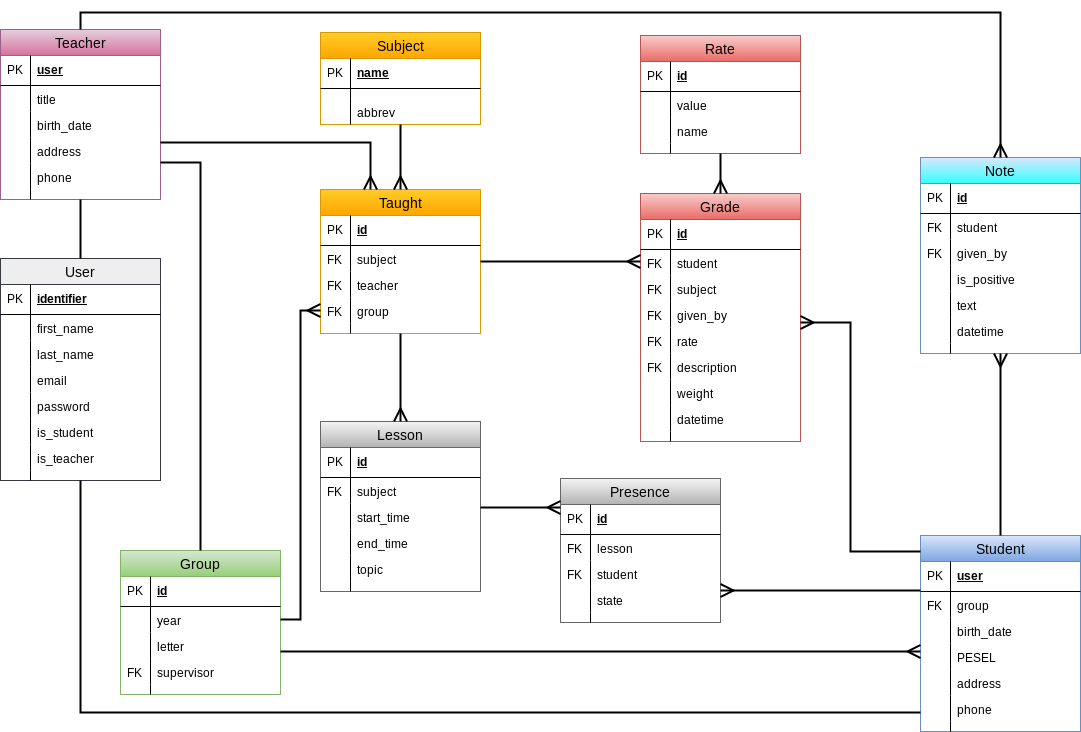
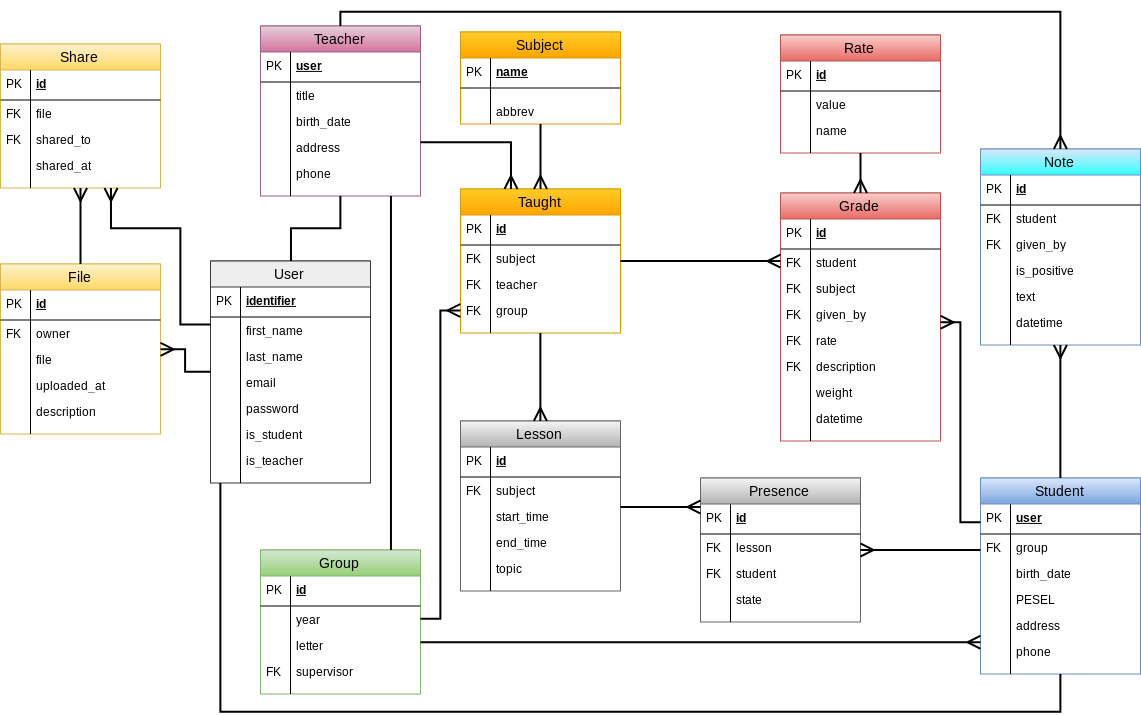
file upload adn sharing done

diff --git a/home/templates/home/_files_list.html b/home/templates/home/_files_list.html
@@ -6,10 +6,16 @@
         <div class="file_list_element">
           <a href="/media/user_{{ file.owner.id }}/{{ file }}" %}>{{ file }}</a>
           <h6>{{ file.description }}</h6>
-          <form class="file_inline_form" action="{% url 'home:file-delete' pk=file.id %}" method="post">
-            {% csrf_token %}
-            <input type="submit" name="delete_button" value="Delete">
-          </form>
+          <div style="display: inline-flex;">
+            <form class="file_inline_form" action="{% url 'home:file-share' pk=file.id %}" method="get">
+              {% csrf_token %}
+              <input type="submit" name="share_button" value="Share">
+            </form>
+            <form class="file_inline_form" action="{% url 'home:file-delete' pk=file.id %}" method="post">
+              {% csrf_token %}
+              <input type="submit" name="delete_button" value="Delete">
+            </form>
+          </div>
         </div>
       </li>
     {% endfor %}

diff --git a/home/templates/home/share_file.html b/home/templates/home/share_file.html
@@ -1,0 +1,26 @@
+{% extends "home/__base.html" %}
+
+{% block title %}Sharing {{ file }}{% endblock %}
+
+{% block content %}
+  <h3>Sharing {{ file }}</h3>
+  <div style="display: inline-flex;">
+    <div id="share-with-class-form">
+      <h4>Share with class</h4>
+      <form class="file-share-with-class-form" action="" method="post">
+        {% csrf_token %}
+        {{ group_share_form }}
+        <input type="submit" name="group-share-submit" value="Share">
+      </form>
+    </div>
+    <h2 style="margin: 20px;">OR</h2>
+    <div id="share-with-user-form">
+      <h4>Share with class</h4>
+      <form class="file-share-with-user-form" action="" method="post">
+        {% csrf_token %}
+        {{ user_share_form }}
+        <input type="submit" name="user-share-submit" value="Share">
+      </form>
+    </div>
+  </div>
+{% endblock %}

diff --git a/home/static/home/style.css b/home/static/home/style.css
@@ -145,12 +145,10 @@ input {
 
 li p {
 	padding: 0px 5px;
-	margin: auto;
 }
 
 li a {
 	padding: 0px 5px;
-	margin: auto;
 }
 
 li h6 {

diff --git a/home/views.py b/home/views.py
@@ -31,6 +31,45 @@ class FileDeleteView(View):
         return HttpResponseForbidden()
 
 
+@method_decorator(login_required, name='dispatch')
+class FileShareView(View):
+    template_name = 'home/share_file.html'
+
+    def get(self, request, *args, **kwargs):
+        file = get_object_or_404(File, id=kwargs['pk'])
+        context = {
+            'file' : file,
+            'group_share_form' : ShareWithClassForm(),
+            'user_share_form' : ShareWithUserForm(),
+        }
+        return render(request, self.template_name, context)
+
+    def post(self, request, *args, **kwargs):
+        file = get_object_or_404(File, id=kwargs['pk'])
+        if request.user != file.owner:
+            return HttpResponseForbidden()
+        if 'user-share-submit' in request.POST:
+            form = ShareWithUserForm(request.POST)
+            if form.is_valid():
+                share = Share()
+                share.file = file
+                share.shared_to = form.cleaned_data['shared_to']
+                share.shared_at = timezone.now()
+                share.save()
+        elif 'group-share-submit' in request.POST:
+            form = ShareWithClassForm(request.POST)
+            if form.is_valid():
+                group = form.cleaned_data['group']
+                for student in group.student_set.all():
+                    share = Share()
+                    share.file = file
+                    share.shared_to = student.user
+                    share.shared_at = timezone.now()
+                    share.save()
+        return HttpResponseRedirect(reverse('home:profile', \
+            kwargs={'pk':request.user.id}))
+
+
 class IndexView(View):
     template_name = 'home/index.html'
 

diff --git a/home/models.py b/home/models.py
@@ -19,6 +19,12 @@ class User(AbstractUser):
     is_teacher = models.BooleanField('teacher status', default=False)
     is_writer = models.BooleanField('teacher status', default=False)
 
+    def __str__(self):
+        return self.full_name()
+
+    def __repr__(self):
+        return self.full_name()
+
     def full_name(self):
         return ' '.join([self.first_name, self.last_name])
 
@@ -39,9 +45,8 @@ def user_directory_path(instance, filename):
     return 'user_{0}/{1}'.format(instance.owner.id, filename)
 
 class File(models.Model):
-
     class Meta:
-        ordering = ['uploaded_at']
+        ordering = ['owner','uploaded_at']
 
     owner = models.ForeignKey(User, on_delete=models.CASCADE)
     file = models.FileField(upload_to=user_directory_path)
@@ -56,6 +61,8 @@ class File(models.Model):
 
 
 class Share(models.Model):
+    class Meta:
+        ordering = ['shared_to','file']
 
     file = models.ForeignKey(File, on_delete=models.CASCADE)
     shared_to = models.ForeignKey(User, on_delete=models.CASCADE)

diff --git a/home/forms.py b/home/forms.py
@@ -4,9 +4,39 @@ from django.forms import ModelForm
 from django.utils import timezone
 
 from .models import *
+from schoolregister.models import Group
 
+MAX_UPLOAD_SIZE = "10485760" # 10Mb
 
 class FileForm(forms.ModelForm):
     class Meta:
         model = File
         exclude = ('owner', 'uploaded_at')
+
+    def clean_file(self):
+        content = self.cleaned_data['file']
+        if content._size > int(MAX_UPLOAD_SIZE):
+            raise forms.ValidationError(("Please keep file size under %s. Current file size %s")%(MAX_UPLOAD_SIZE, content._size))
+        return content
+
+
+class ShareWithClassForm(forms.Form):
+
+    group = forms.ModelChoiceField(
+        queryset=Group.objects.all()
+    )
+
+    def clean_group(self):
+        group = self.cleaned_data['group']
+        return group
+
+
+class ShareWithUserForm(forms.Form):
+
+    shared_to = forms.ModelChoiceField(
+        queryset=User.objects.all()
+    )
+
+    def clean_user(self):
+        user = self.cleaned_data['user']
+        return user

diff --git a/schoolregister/models.py b/schoolregister/models.py
@@ -25,6 +25,9 @@ class Subject(models.Model):
 
 
 class Teacher(models.Model):
+    class Meta:
+        ordering = ['user']
+
     NONE = ''
     ENGINEER = 'Inż.'
     MASTER = 'Mgr'
@@ -118,7 +121,6 @@ class Taught(models.Model):
 
 
 class Student(models.Model):
-
     class Meta:
         ordering = ['user']
 
@@ -132,10 +134,10 @@ class Student(models.Model):
     phone = models.CharField(max_length=17)
 
     def __str__(self):
-        return ' '.join([self.user.first_name, self.user.last_name])
+        return ' '.join([self.user.first_name, self.user.last_name, '-', str(self.group)])
 
     def __repr__(self):
-        return ' '.join([Student, self.user.first_name, self.user.last_name, ',', self.group])
+        return ' '.join([self.user.first_name, self.user.last_name, '-', str(self.group)])
 
     def full_name(self):
         return ' '.join([self.user.first_name, self.user.last_name])

diff --git a/uploads/user_2/Proxy.py b/uploads/user_2/Proxy.py
@@ -1,0 +1,32 @@
+class Implementacja:
+    atrybucik = 'K5g9'
+
+    def princik(self):
+        print("Twój atrybucik to: {}".format(self.atrybucik))
+
+    def pobieranko_atrybuciku(self):
+        self.atrybucik = input("Podaj nową wartość atrybuciku: ")
+
+
+class Proxy:
+
+    def __init__(self):
+        self.__implementacja = Implementacja()
+
+    def princik(self): self.__implementacja.princik()
+    def pobieranko_atrybuciku(self): self.__implementacja.pobieranko_atrybuciku()
+
+
+class BardziejPythonoweProxy:
+
+    def __init__(self):
+        self.__implementacja = Implementacja()
+
+    def __getattr__(self, name):
+        return getattr(self.__implementacja, name)
+
+
+p = BardziejPythonoweProxy()
+p.princik()
+p.pobieranko_atrybuciku()
+p.princik()

diff --git a/uploads/user_2/singleton.py b/uploads/user_2/singleton.py
@@ -1,0 +1,20 @@
+
+class Singleton:
+    class __Singleton:
+            self.val = arg
+            def __init__(self, arg):
+        def __str__(self):
+            return str(self.val)
+    instance = None
+    def __init__(self, arg):
+        if not Singleton.instance:
+            Singleton.instance = Singleton.__Singleton(arg)
+        else:
+            Singleton.instance.val = arg
+    def __getattr__(self, name):
+        return getattr(self.instance, name)
+
+a = Singleton(15)
+b = Singleton(14)
+a
+b

diff --git a/home/urls.py b/home/urls.py
@@ -14,7 +14,10 @@ urlpatterns = [
     path('<int:pk>/profile/', include([
         path('', views.ProfileView.as_view(), name='profile'),
     ])),
-    path('file/<int:pk>/delete/', views.FileDeleteView.as_view(), name='file-delete'),
+    path('file/<int:pk>/', include([
+        path('delete/', views.FileDeleteView.as_view(), name='file-delete'),
+        path('share/', views.FileShareView.as_view(), name='file-share'),
+    ])),
 ]
 
 if settings.DEBUG:
